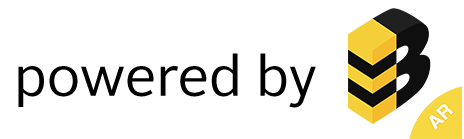
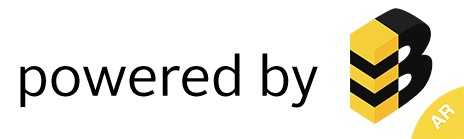
Start screen

diff --git a/fe/src/App.js b/fe/src/App.js
@@ -2,7 +2,7 @@ import React from "react";
 import "./App.css";
 import * as THREE from "three";
 import { BrowserRouter as Router, Switch, Route, Link } from "react-router-dom";
-import Header from './components/Header'
+import Start from './components/Start'
 import Container from '@material-ui/core/Container';
 
 
@@ -42,8 +42,7 @@ class App extends React.Component {
   }
 
   render() {
-    return (
-      <div className="App">
+    return (<React.Fragment>
         <Container>
         <Router>
           <div>
@@ -58,13 +57,14 @@ class App extends React.Component {
                 <Users />
               </Route>
               <Route path="/">
-                <Header />
+                <Start />
               </Route>
             </Switch>
           </div>
         </Router>
         </Container>
-      </div>
+        </React.Fragment>
+      
     );
   }
 }

diff --git a/fe/public/index.html b/fe/public/index.html
@@ -25,8 +25,18 @@
     </a-entity>
     <a-camera rig id="rig" look-controls="enabled: true; hmdEnabled: true; touchEnabled: false;" position="0 1 2">
     </a-camera>
+    <a-entity light="type: directional;
+    intensity: 0.9;
+    castShadow: true;
+    shadowMapHeight:2048;
+    shadowMapWidth:2048;
+    shadowCameraTop: 10;
+    target: #model;" position="1 4.3 2.5" xrextras-attach="target: model; offset: 1 15 3;" shadow>
+    </a-entity>
+
+    <a-light type="ambient" intensity="0.8"></a-light>
   </a-scene>
 
-</body>
+  </body>
 
 </html>

diff --git a/fe/src/components/Start.js b/fe/src/components/Start.js
@@ -1,0 +1,14 @@
+import React, { Component } from 'react';
+import PoweredByBuzz from '../images/powered_by_buzz.png';
+import BuzzARVR from '../images/buzz_arvr.png';
+import "./Start.css";
+export default class Start extends Component {
+  render() {
+    return (
+    <React.Fragment>
+      <img src={BuzzARVR} alt={"Buzz ARVR logo"} className="buzz_arvr" />
+      <img src={PoweredByBuzz} alt={"Powered by buzz"} className="powered_by_Buzz" />
+    </React.Fragment>
+    );
+  }
+} 

diff --git a/fe/src/components/start.css b/fe/src/components/start.css
@@ -1,0 +1,17 @@
+img.buzz_arvr
+{
+    position: absolute;
+    left: 10vw;
+    top: 30vh;
+    width: 80vw;
+    height: auto;
+}
+
+
+img.powered_by_Buzz
+{
+    position: absolute;
+    right: 0;
+    bottom: 0;
+    width: 200px;
+}
